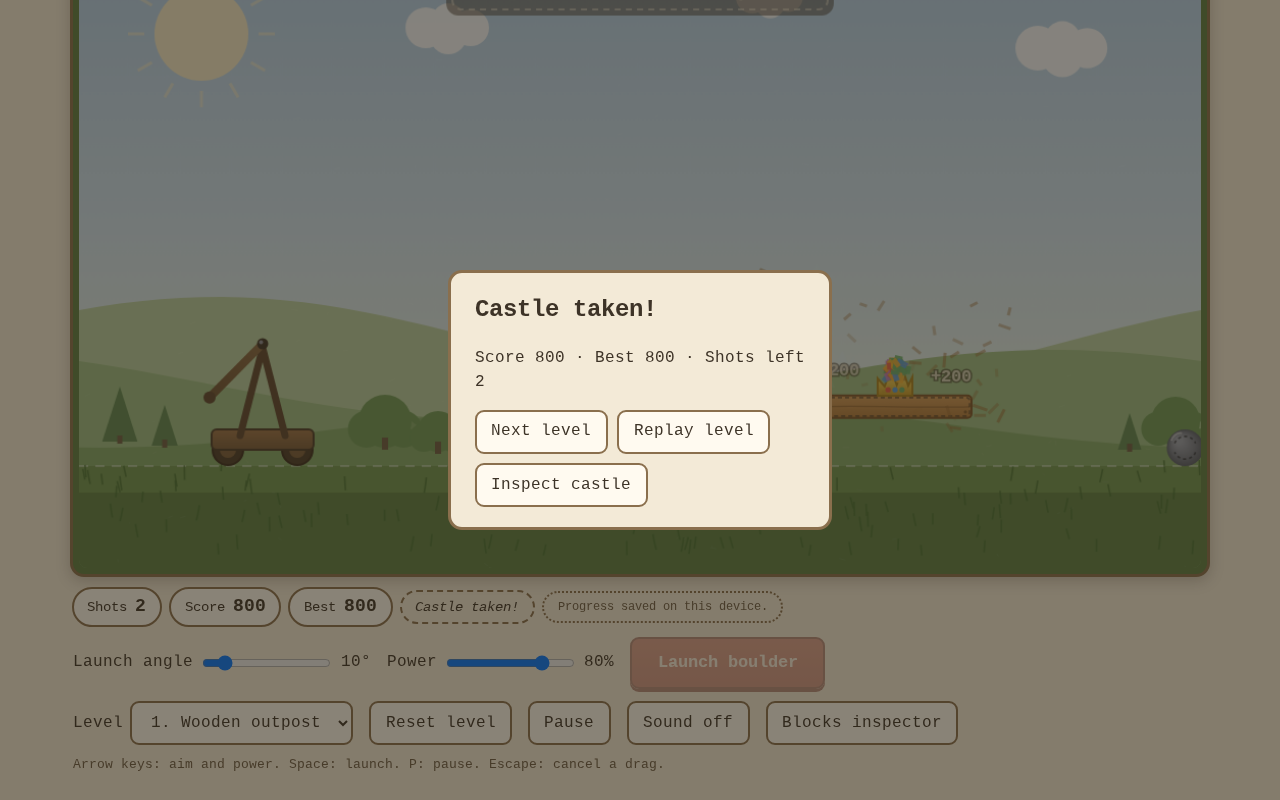
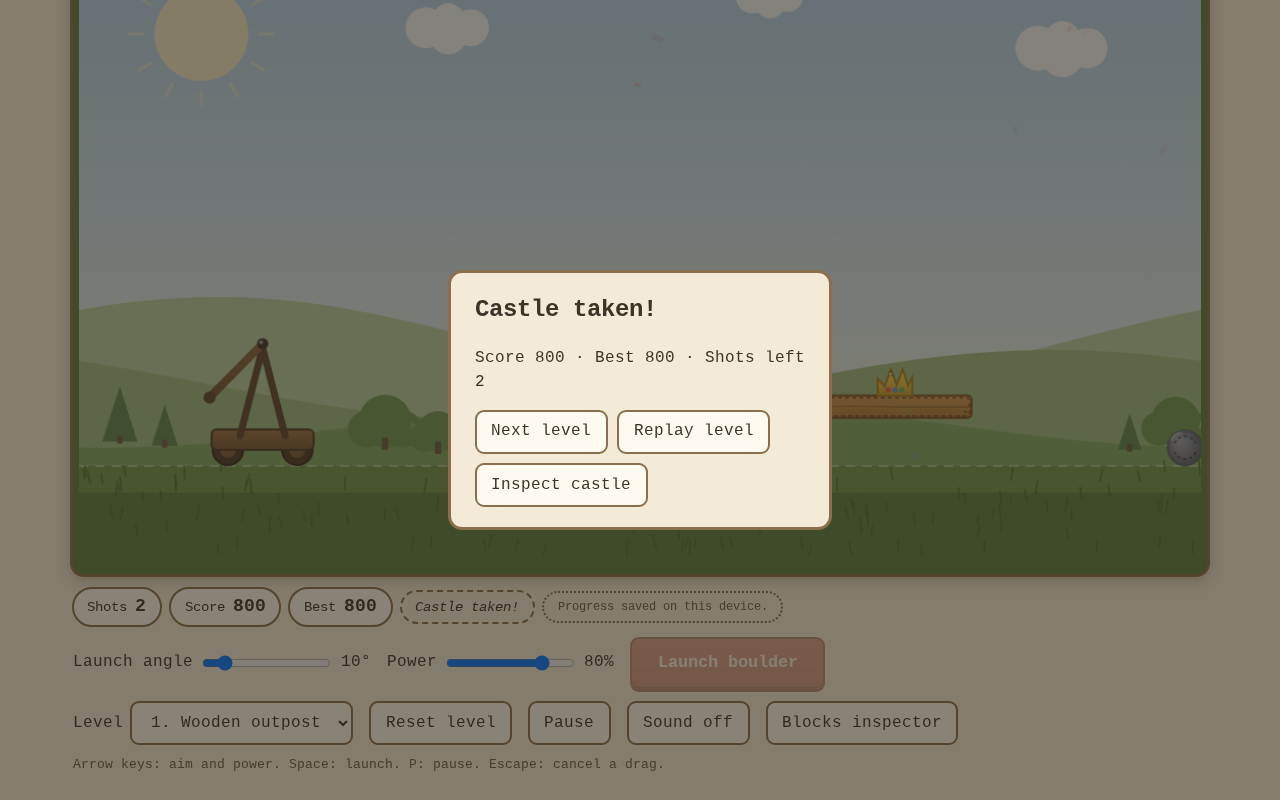
Delay result dialog ~1.8s after win (1s after loss) so the destruction plays out

Changed region(s): [[0.3438, 0.0, 0.6562, 0.0312], [0.6562, 0.4375, 0.7188, 0.4688]]

diff --git a/index.html b/index.html
@@ -1131,7 +1131,8 @@
     time: 0,
     armSwing: 0,
     bandSnap: 0,
-    flash: 0
+    flash: 0,
+    pendingResult: null
   };
 
   var rngSeed = 987654321;
@@ -1736,6 +1737,14 @@
     if (ui.banner) {
       ui.banner.age += dt;
       if (ui.banner.age > 2.4) ui.banner = null;
+    }
+    if (ui.pendingResult) {
+      ui.pendingResult.age += dt;
+      if (ui.pendingResult.age >= ui.pendingResult.delay) {
+        var result = ui.pendingResult;
+        ui.pendingResult = null;
+        showResult(result.won, result.score);
+      }
     }
     ui.time += dt;
   }
@@ -2463,7 +2472,7 @@
       } else if (e.type === 'win') {
         onWin(e);
       } else if (e.type === 'lose') {
-        showResult(false, e.score);
+        ui.pendingResult = { won: false, score: e.score, age: 0, delay: 1 };
         playTone(120, 0.3, 'triangle', 0.05);
       } else if (e.type === 'reset') {
         ui.particles.length = 0;
@@ -2473,6 +2482,7 @@
         ui.flash = 0;
         ui.armSwing = 0;
         ui.bandSnap = 0;
+        ui.pendingResult = null;
         ui.banner = {
           text: 'Level ' + (e.level + 1) + ' \u00B7 ' + Core.Levels[e.level].name,
           age: 0
@@ -2494,7 +2504,7 @@
     var crown = world.crown;
     spawnConfetti(crown ? crown.x : World.width / 2, crown ? crown.y : 200);
     setStatus('Castle taken!');
-    showResult(true, e.score);
+    ui.pendingResult = { won: true, score: e.score, age: 0, delay: 1.8 };
     playTone(660, 0.25, 'square', 0.06);
   }
 
